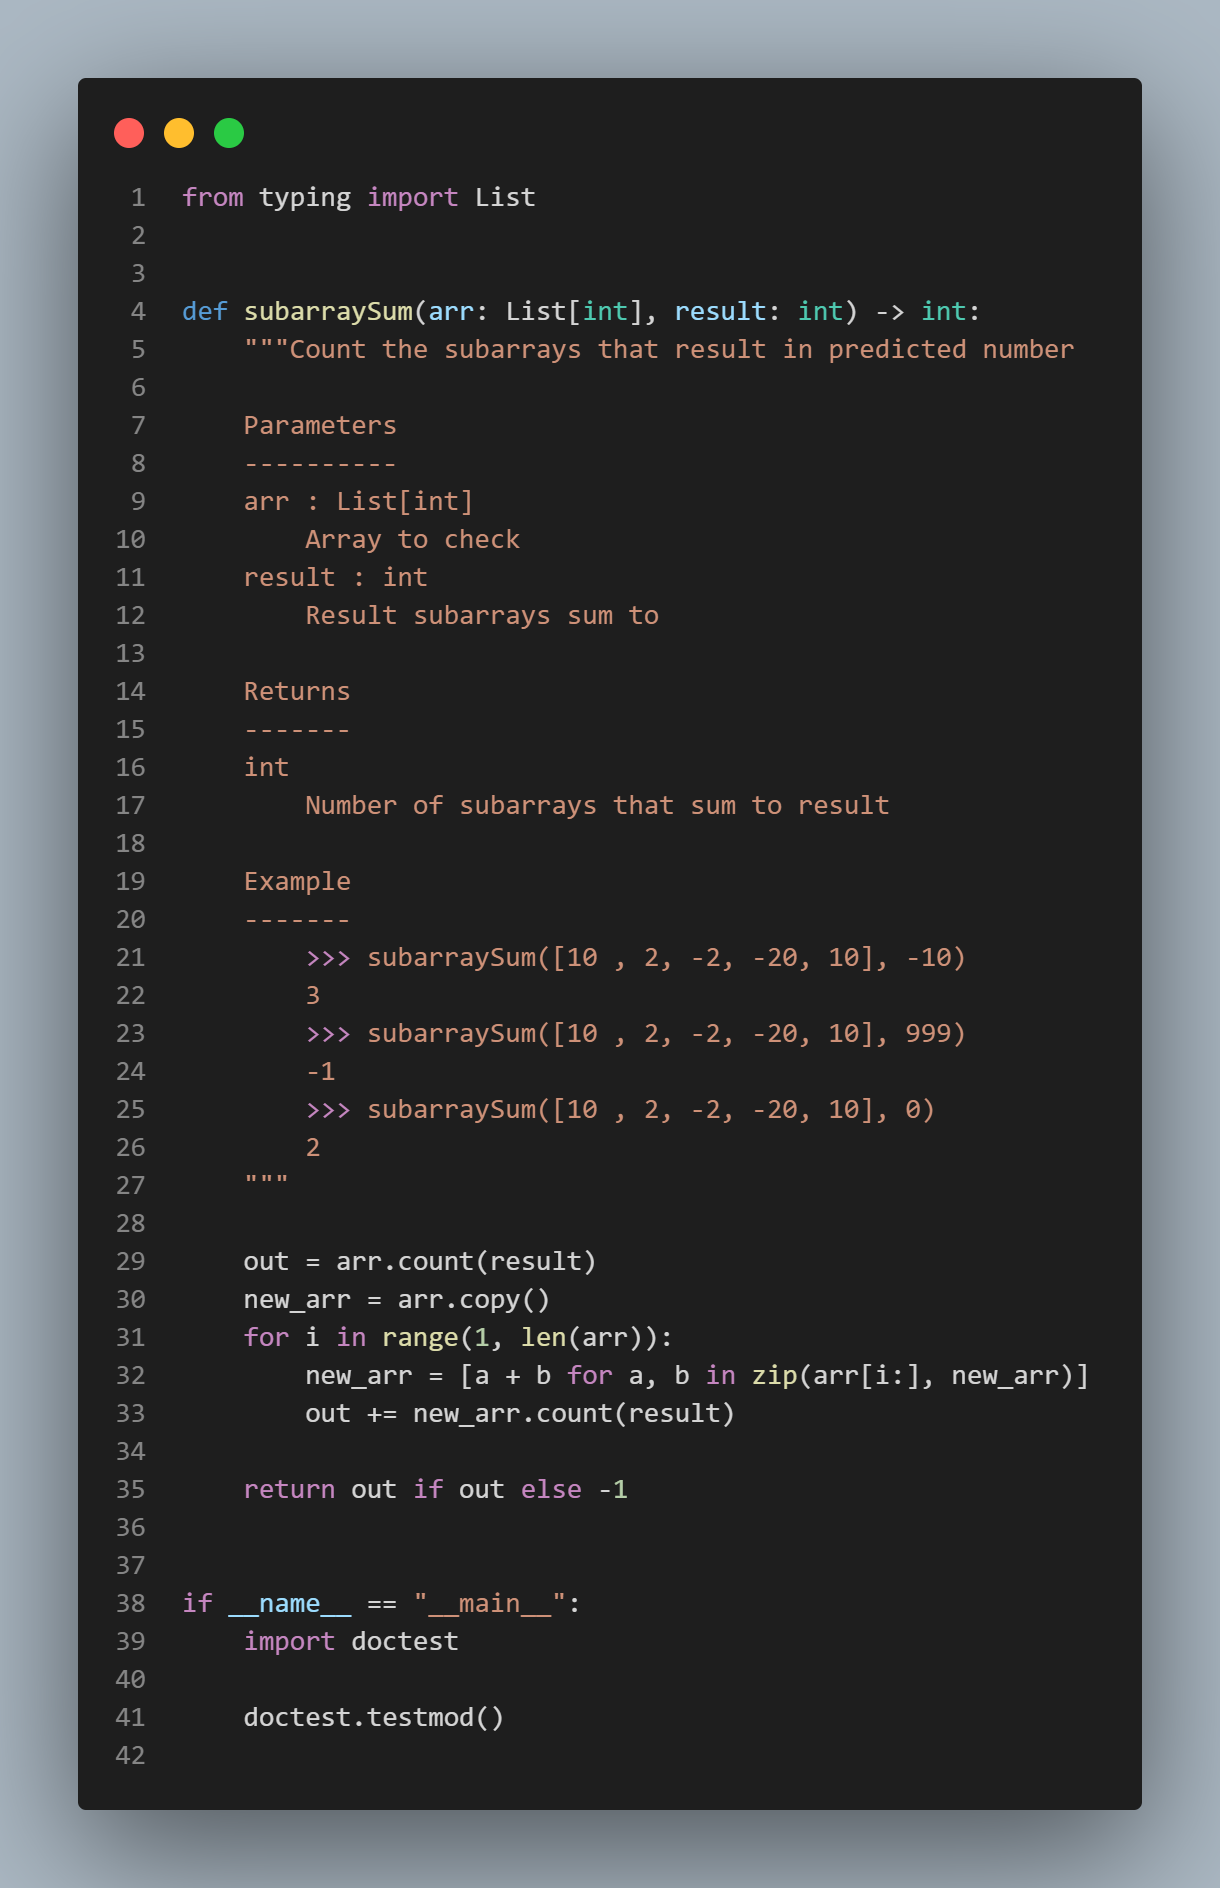
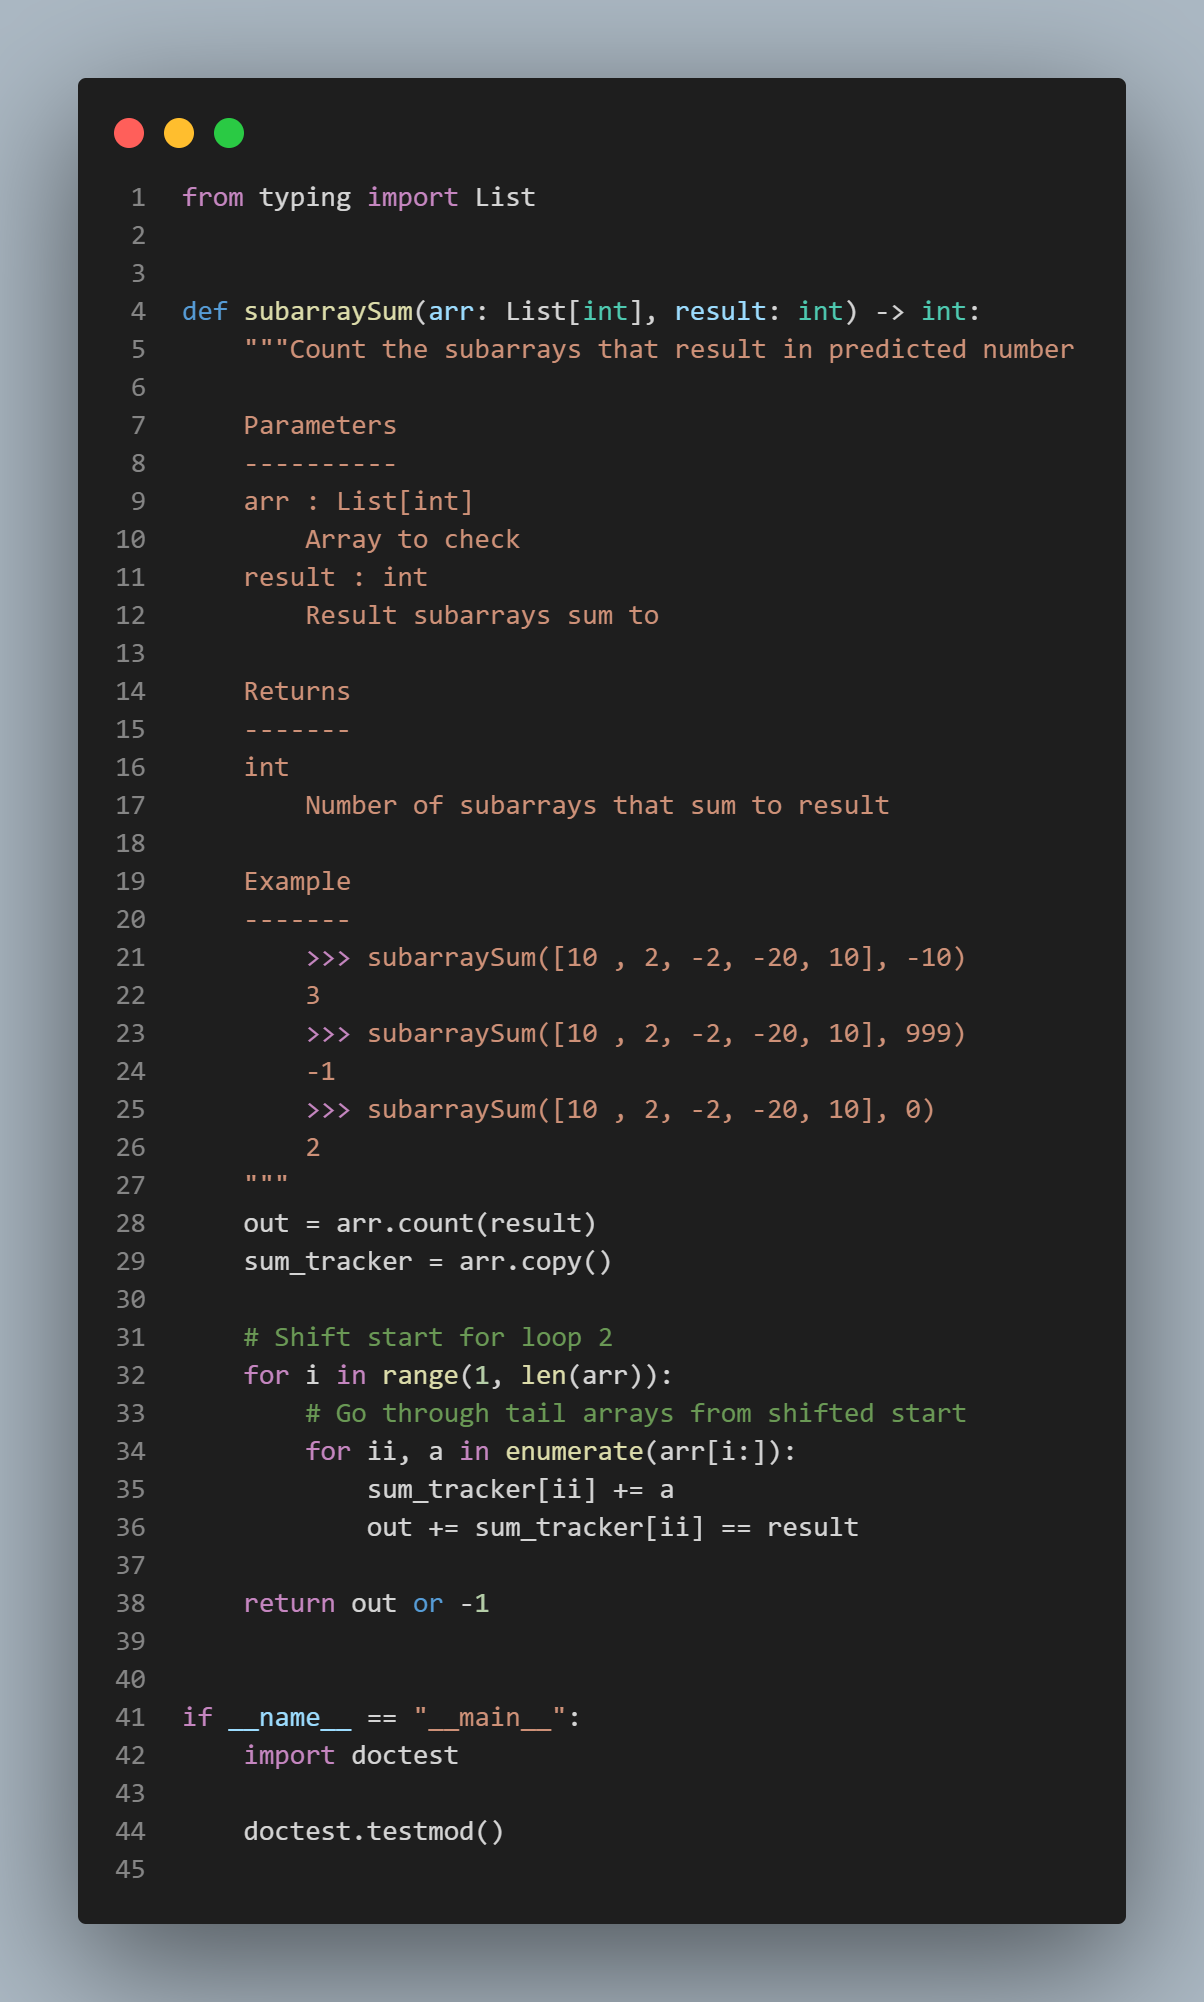
Optimisations

diff --git a/2021-07-19.py b/2021-07-19.py
@@ -25,14 +25,17 @@ def subarraySum(arr: List[int], result: int) -> int:
         >>> subarraySum([10 , 2, -2, -20, 10], 0)
         2
     """
-
     out = arr.count(result)
-    new_arr = arr.copy()
-    for i in range(1, len(arr)):
-        new_arr = [a + b for a, b in zip(arr[i:], new_arr)]
-        out += new_arr.count(result)
+    sum_tracker = arr.copy()
 
-    return out if out else -1
+    # Shift start for loop 2
+    for i in range(1, len(arr)):
+        # Go through tail arrays from shifted start
+        for ii, a in enumerate(arr[i:]):
+            sum_tracker[ii] += a
+            out += sum_tracker[ii] == result
+
+    return out or -1
 
 
 if __name__ == "__main__":
